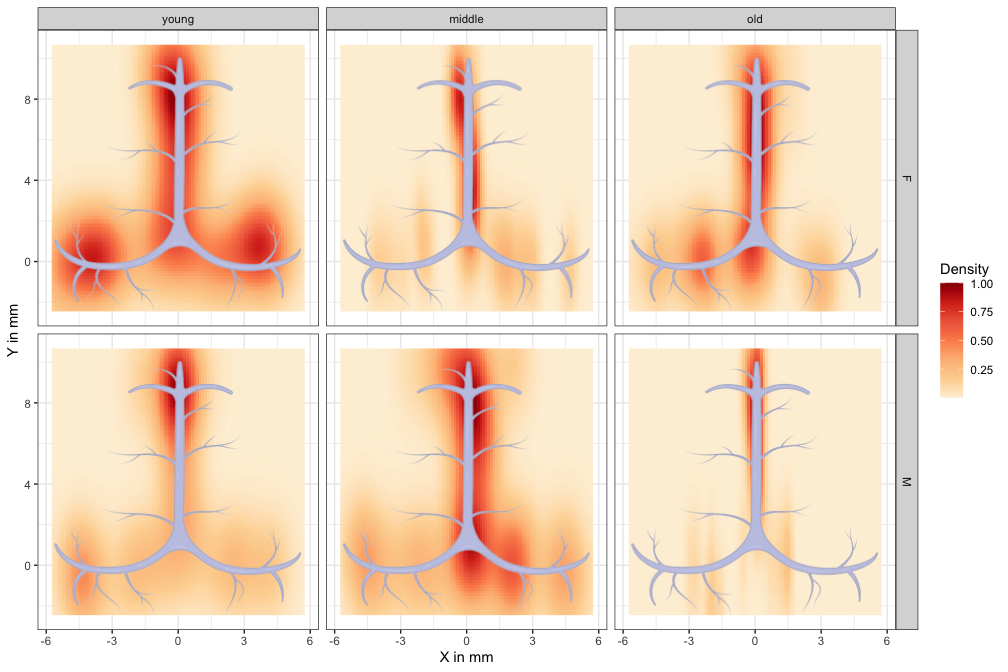
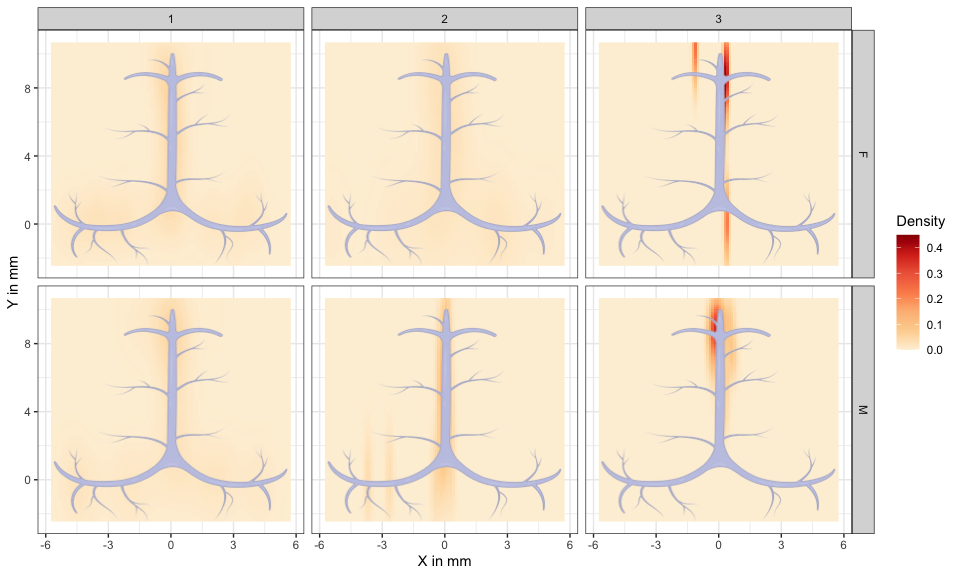
Fix ndensity plots

diff --git a/APP.md b/APP.md
@@ -143,15 +143,18 @@ alt="Figure 4: 2d Binned plot of tertiary limphatic structures around meninges 
 [Figure 5](#fig-dens) shows the density of TLSs.
 
 <img src="results/plots/APPfig-dens-1.png" id="fig-dens"
-alt="Figure 5: Density plot of TLSs around meninges. Colour indicates the fraction of structures found in each pixel. Each panel corresponds to a mice group based on sex and age category." />
+alt="Figure 5: Density plot of tertiary lymphatic structures around meninges by phenotype (1, 2 or 3). Colour indicates the fraction of structures found in each pixel. Rows correspond to a mice group based on sex and age category, whereas columns represent phenotypes." />
+
+<img src="results/plots/APPfig-ndens-1.png" id="fig-ndens"
+alt="Figure 6: Density plot of TLSs around meninges. Colour indicates the fraction of structures found in each pixel normalised by group maximum. Each panel corresponds to a mice group based on sex and age category." />
 
 <img src="results/plots/APPfig-loc-dens-1.png" id="fig-loc-dens"
-alt="Figure 6: Density plot of TLSs around meninges. Each dot represents one structure, sized by dimension, coloured by phenotype. Colour indicates the fraction of structures found in each pixel. Each panel corresponds to a mice group based on sex and age category." />
+alt="Figure 7: Density plot of TLSs around meninges. Each dot represents one structure, sized by dimension, coloured by phenotype. Colour indicates the fraction of structures found in each pixel. Each panel corresponds to a mice group based on sex and age category." />
 
 ### Density by phenotype
 
 <img src="results/plots/APPfig-dens-pheno-1.png" id="fig-dens-pheno"
-alt="Figure 7: Density plot of tertiary lymphatic structures around meninges by phenotype (1, 2 or 3). Colour indicates the fraction of structures found in each pixel. Rows correspond to a mice group based on sex and age category, whereas columns represent phenotypes." />
+alt="Figure 8: Density plot of tertiary lymphatic structures around meninges by phenotype (1, 2 or 3). Colour indicates the fraction of structures found in each pixel. Rows correspond to a mice group based on sex and age category, whereas columns represent phenotypes." />
 
 <img src="results/plots/APPfig-ndens-pheno-1.png" id="fig-ndens-pheno"
-alt="Figure 8: Density plot of tertiary lymphatic structures around meninges by phenotype (1, 2 or 3). Colour indicates the fraction of structures found in each pixel normalised by group maximum. Rows correspond to a mice group based on sex and age category, whereas columns represent phenotypes." />
+alt="Figure 9: Density plot of tertiary lymphatic structures around meninges by phenotype (1, 2 or 3). Colour indicates the fraction of structures found in each pixel normalised by group maximum. Rows correspond to a mice group based on sex and age category, whereas columns represent phenotypes." />

diff --git a/C57.md b/C57.md
@@ -143,15 +143,18 @@ alt="Figure 4: 2d Binned plot of tertiary limphatic structures around meninges 
 [Figure 5](#fig-dens) shows the density of TLSs.
 
 <img src="results/plots/C57fig-dens-1.png" id="fig-dens"
-alt="Figure 5: Density plot of TLSs around meninges. Colour indicates the fraction of structures found in each pixel. Each panel corresponds to a mice group based on sex and age category." />
+alt="Figure 5: Density plot of tertiary lymphatic structures around meninges by phenotype (1, 2 or 3). Colour indicates the fraction of structures found in each pixel. Rows correspond to a mice group based on sex and age category, whereas columns represent phenotypes." />
+
+<img src="results/plots/C57fig-ndens-1.png" id="fig-ndens"
+alt="Figure 6: Density plot of TLSs around meninges. Colour indicates the fraction of structures found in each pixel normalised by group maximum. Each panel corresponds to a mice group based on sex and age category." />
 
 <img src="results/plots/C57fig-loc-dens-1.png" id="fig-loc-dens"
-alt="Figure 6: Density plot of TLSs around meninges. Each dot represents one structure, sized by dimension, coloured by phenotype. Colour indicates the fraction of structures found in each pixel. Each panel corresponds to a mice group based on sex and age category." />
+alt="Figure 7: Density plot of TLSs around meninges. Each dot represents one structure, sized by dimension, coloured by phenotype. Colour indicates the fraction of structures found in each pixel. Each panel corresponds to a mice group based on sex and age category." />
 
 ### Density by phenotype
 
 <img src="results/plots/C57fig-dens-pheno-1.png" id="fig-dens-pheno"
-alt="Figure 7: Density plot of tertiary lymphatic structures around meninges by phenotype (1, 2 or 3). Colour indicates the fraction of structures found in each pixel. Rows correspond to a mice group based on sex and age category, whereas columns represent phenotypes." />
+alt="Figure 8: Density plot of tertiary lymphatic structures around meninges by phenotype (1, 2 or 3). Colour indicates the fraction of structures found in each pixel. Rows correspond to a mice group based on sex and age category, whereas columns represent phenotypes." />
 
 <img src="results/plots/C57fig-ndens-pheno-1.png" id="fig-ndens-pheno"
-alt="Figure 8: Density plot of tertiary lymphatic structures around meninges by phenotype (1, 2 or 3). Colour indicates the fraction of structures found in each pixel normalised by group maximum. Rows correspond to a mice group based on sex and age category, whereas columns represent phenotypes." />
+alt="Figure 9: Density plot of tertiary lymphatic structures around meninges by phenotype (1, 2 or 3). Colour indicates the fraction of structures found in each pixel normalised by group maximum. Rows correspond to a mice group based on sex and age category, whereas columns represent phenotypes." />
